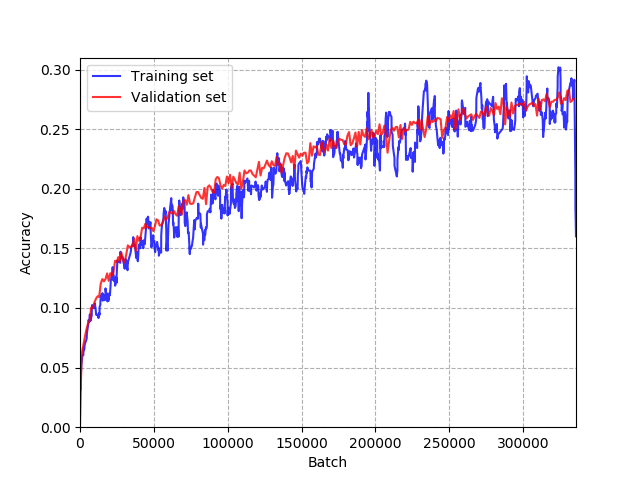
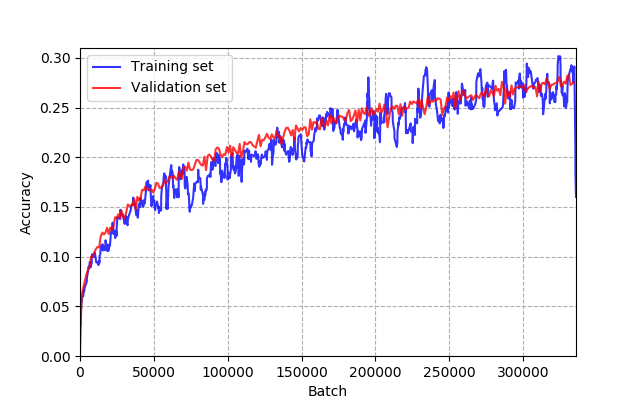
Added the dimensions to the plotting scripts

diff --git a/plots/plot.py b/plots/plot.py
@@ -22,13 +22,12 @@ def _smooth(y, box_pts):
     y_smooth = np.convolve(y, box, mode='same')
     return y_smooth
 
-
 '''
 Plot different models loss on the same graph
 '''
 
 
-def plot_loss(in_files, out_file, names, colors, smooth_val, limits):
+def plot_loss(in_files, out_file, names, colors, smooth_val, limits, dims=(640, 480)):
     num_models = len(in_files)
     limits_x = []
     limits_y = []
@@ -57,6 +56,12 @@ def plot_loss(in_files, out_file, names, colors, smooth_val, limits):
     plt.ylabel('Loss')
     if len(names) > 1:
         plt.legend(names)
+
+    # set dims
+    fig = plt.gcf()
+    DPI = fig.get_dpi()
+    fig.set_size_inches(dims[0] / float(DPI), dims[1] / float(DPI))
+
     plt.savefig(out_file)
     plt.gcf().clear()
 
@@ -66,7 +71,7 @@ Plot different models acc on the same graph
 '''
 
 
-def plot_acc(in_files, out_file, names, colors, smooth_val, limits):
+def plot_acc(in_files, out_file, names, colors, smooth_val, limits, dims=(640, 480)):
     num_models = len(in_files)
     limits_x = []
     limits_y = []
@@ -96,6 +101,12 @@ def plot_acc(in_files, out_file, names, colors, smooth_val, limits):
     plt.ylabel('Accuracy')
     if len(names) > 1:
         plt.legend(names)
+
+    # set dims
+    fig = plt.gcf()
+    DPI = fig.get_dpi()
+    fig.set_size_inches(dims[0] / float(DPI), dims[1] / float(DPI))
+
     plt.savefig(out_file)
     plt.gcf().clear()
 
@@ -137,11 +148,13 @@ plot_loss([DATA_DIR + "train_loss.csv", DATA_DIR + "test_loss.csv"],
           ["Training set", "Validation set"],
           ['b', 'r'],
           [9, -1],
-          [-1, 500])
+          [-1, 500],
+          (640, 400))
 
 plot_acc([DATA_DIR + "train_acc.csv", DATA_DIR + "test_acc.csv"],
          OUT_DIR + 'all_acc.png',
          ["Training set", "Validation set"],
          ['b', 'r'],
          [9, -1],
-         [-1, 0.31])
+         [-1, 0.31],
+         (640, 400))
